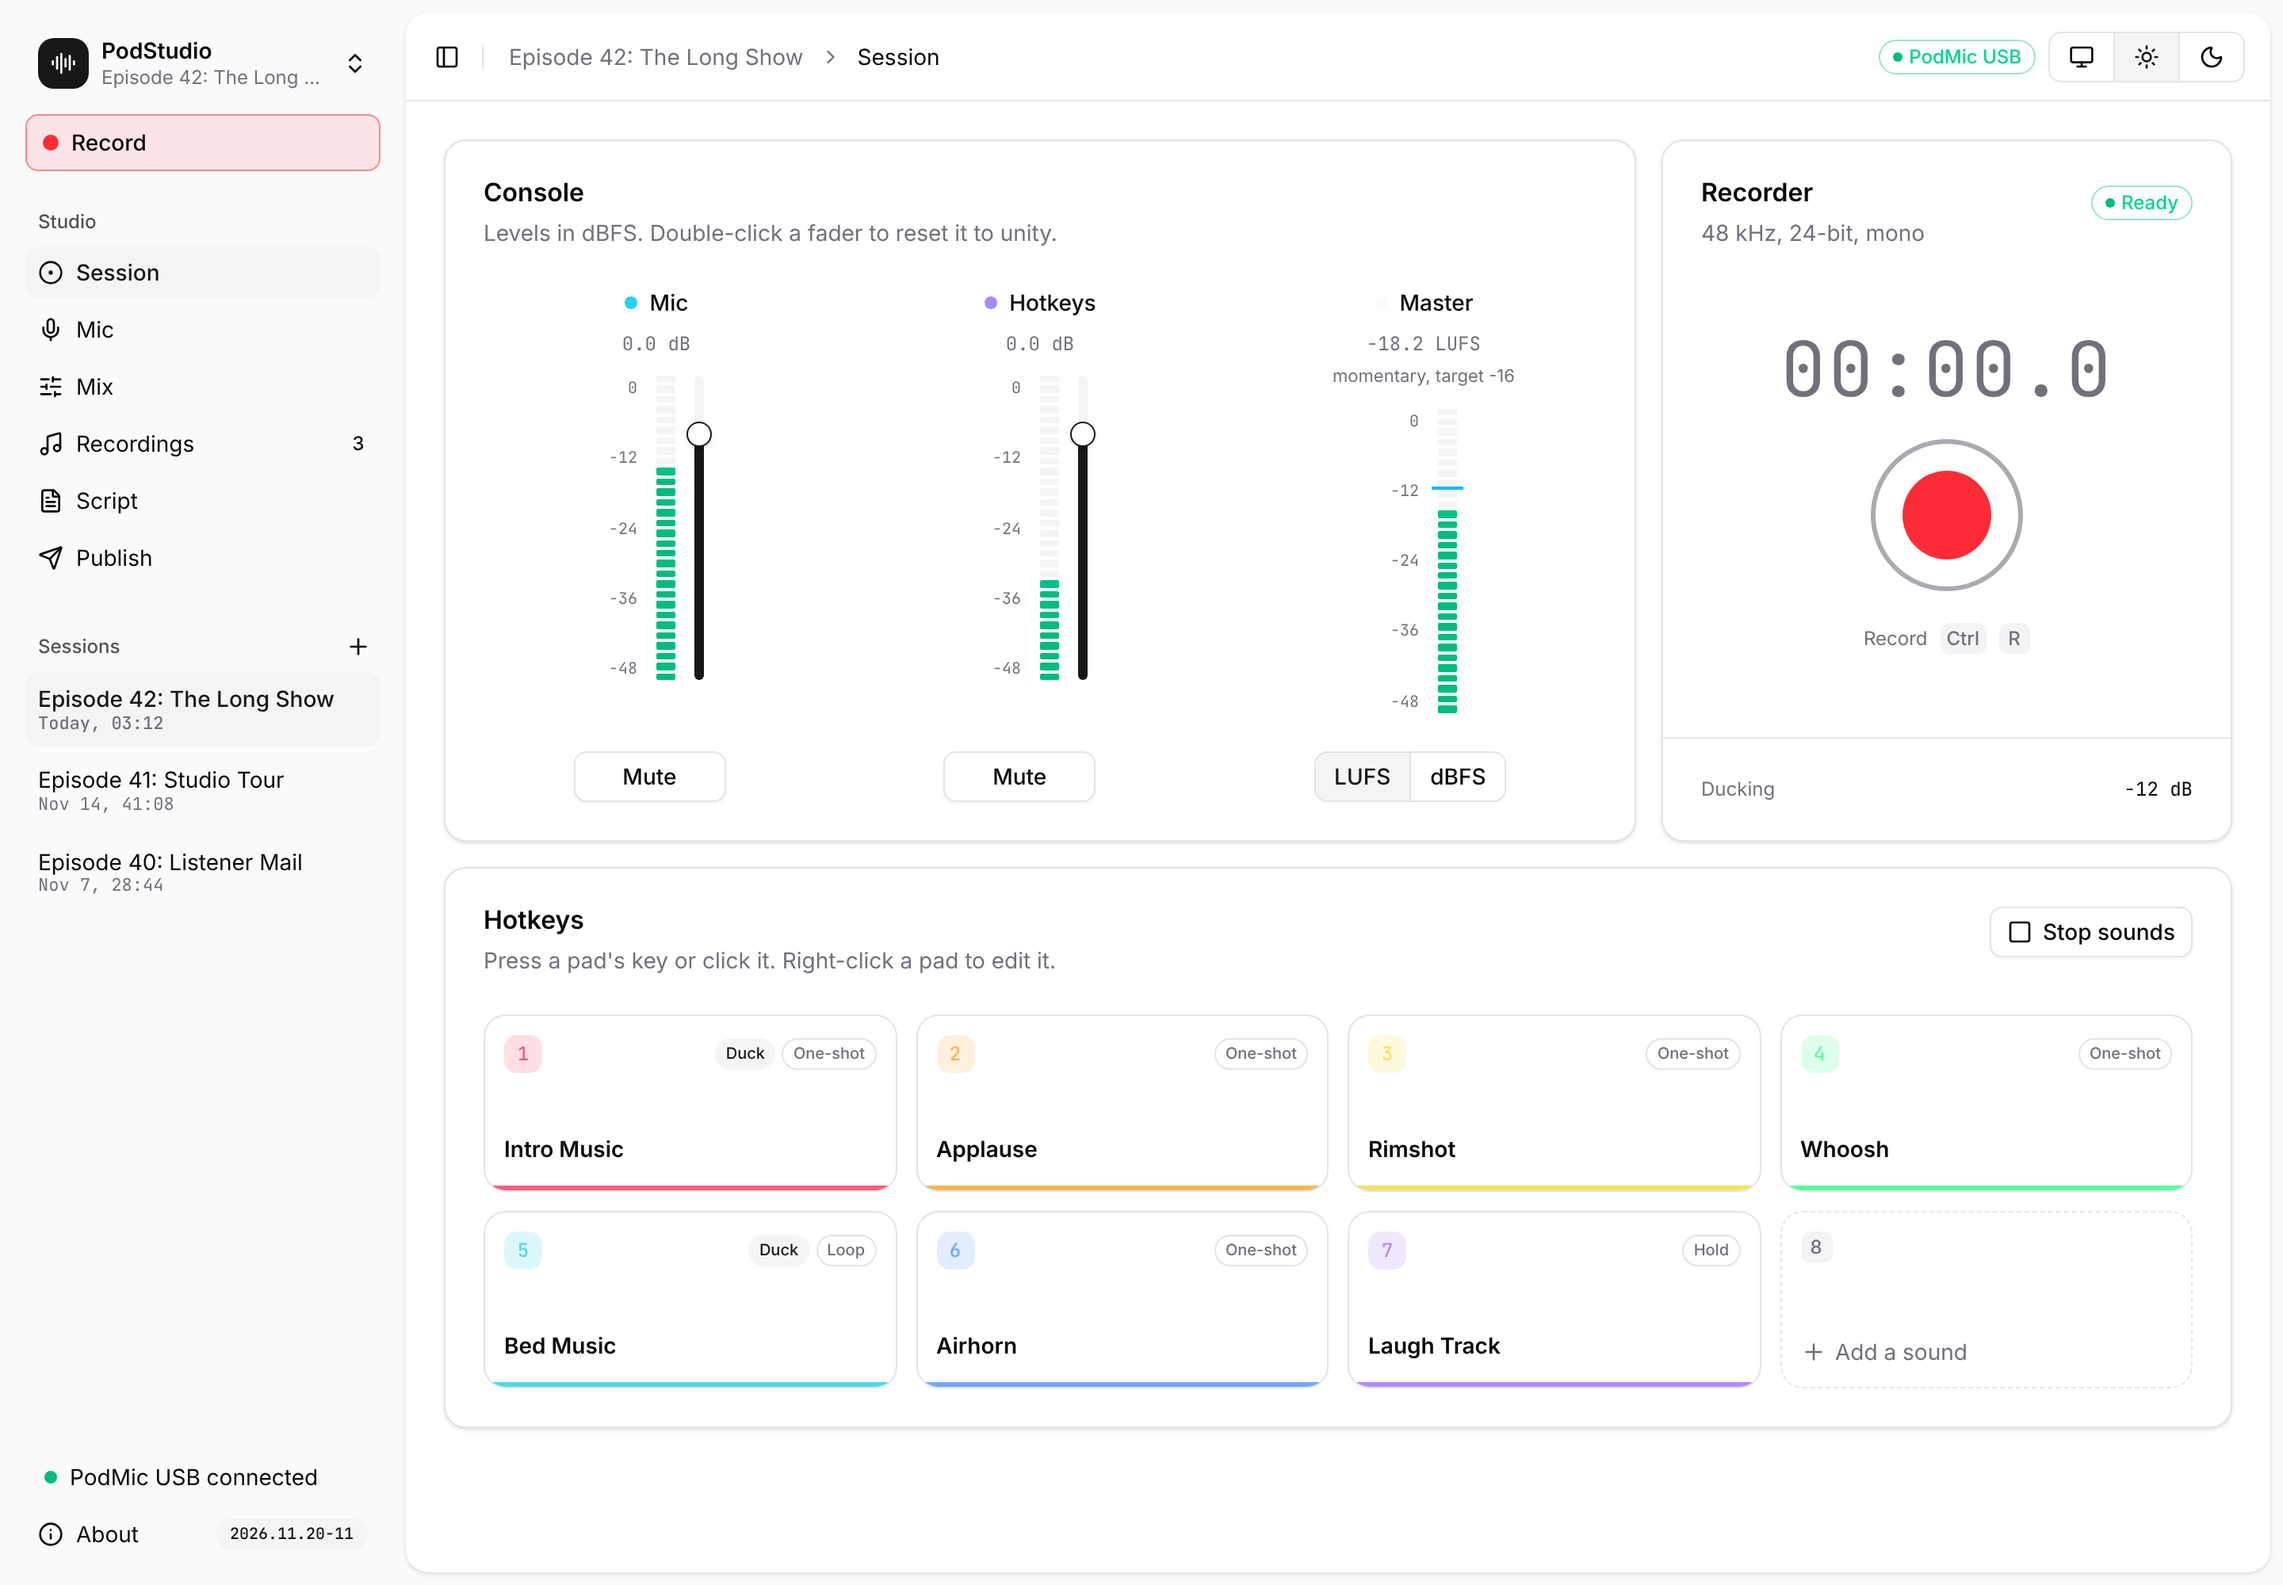
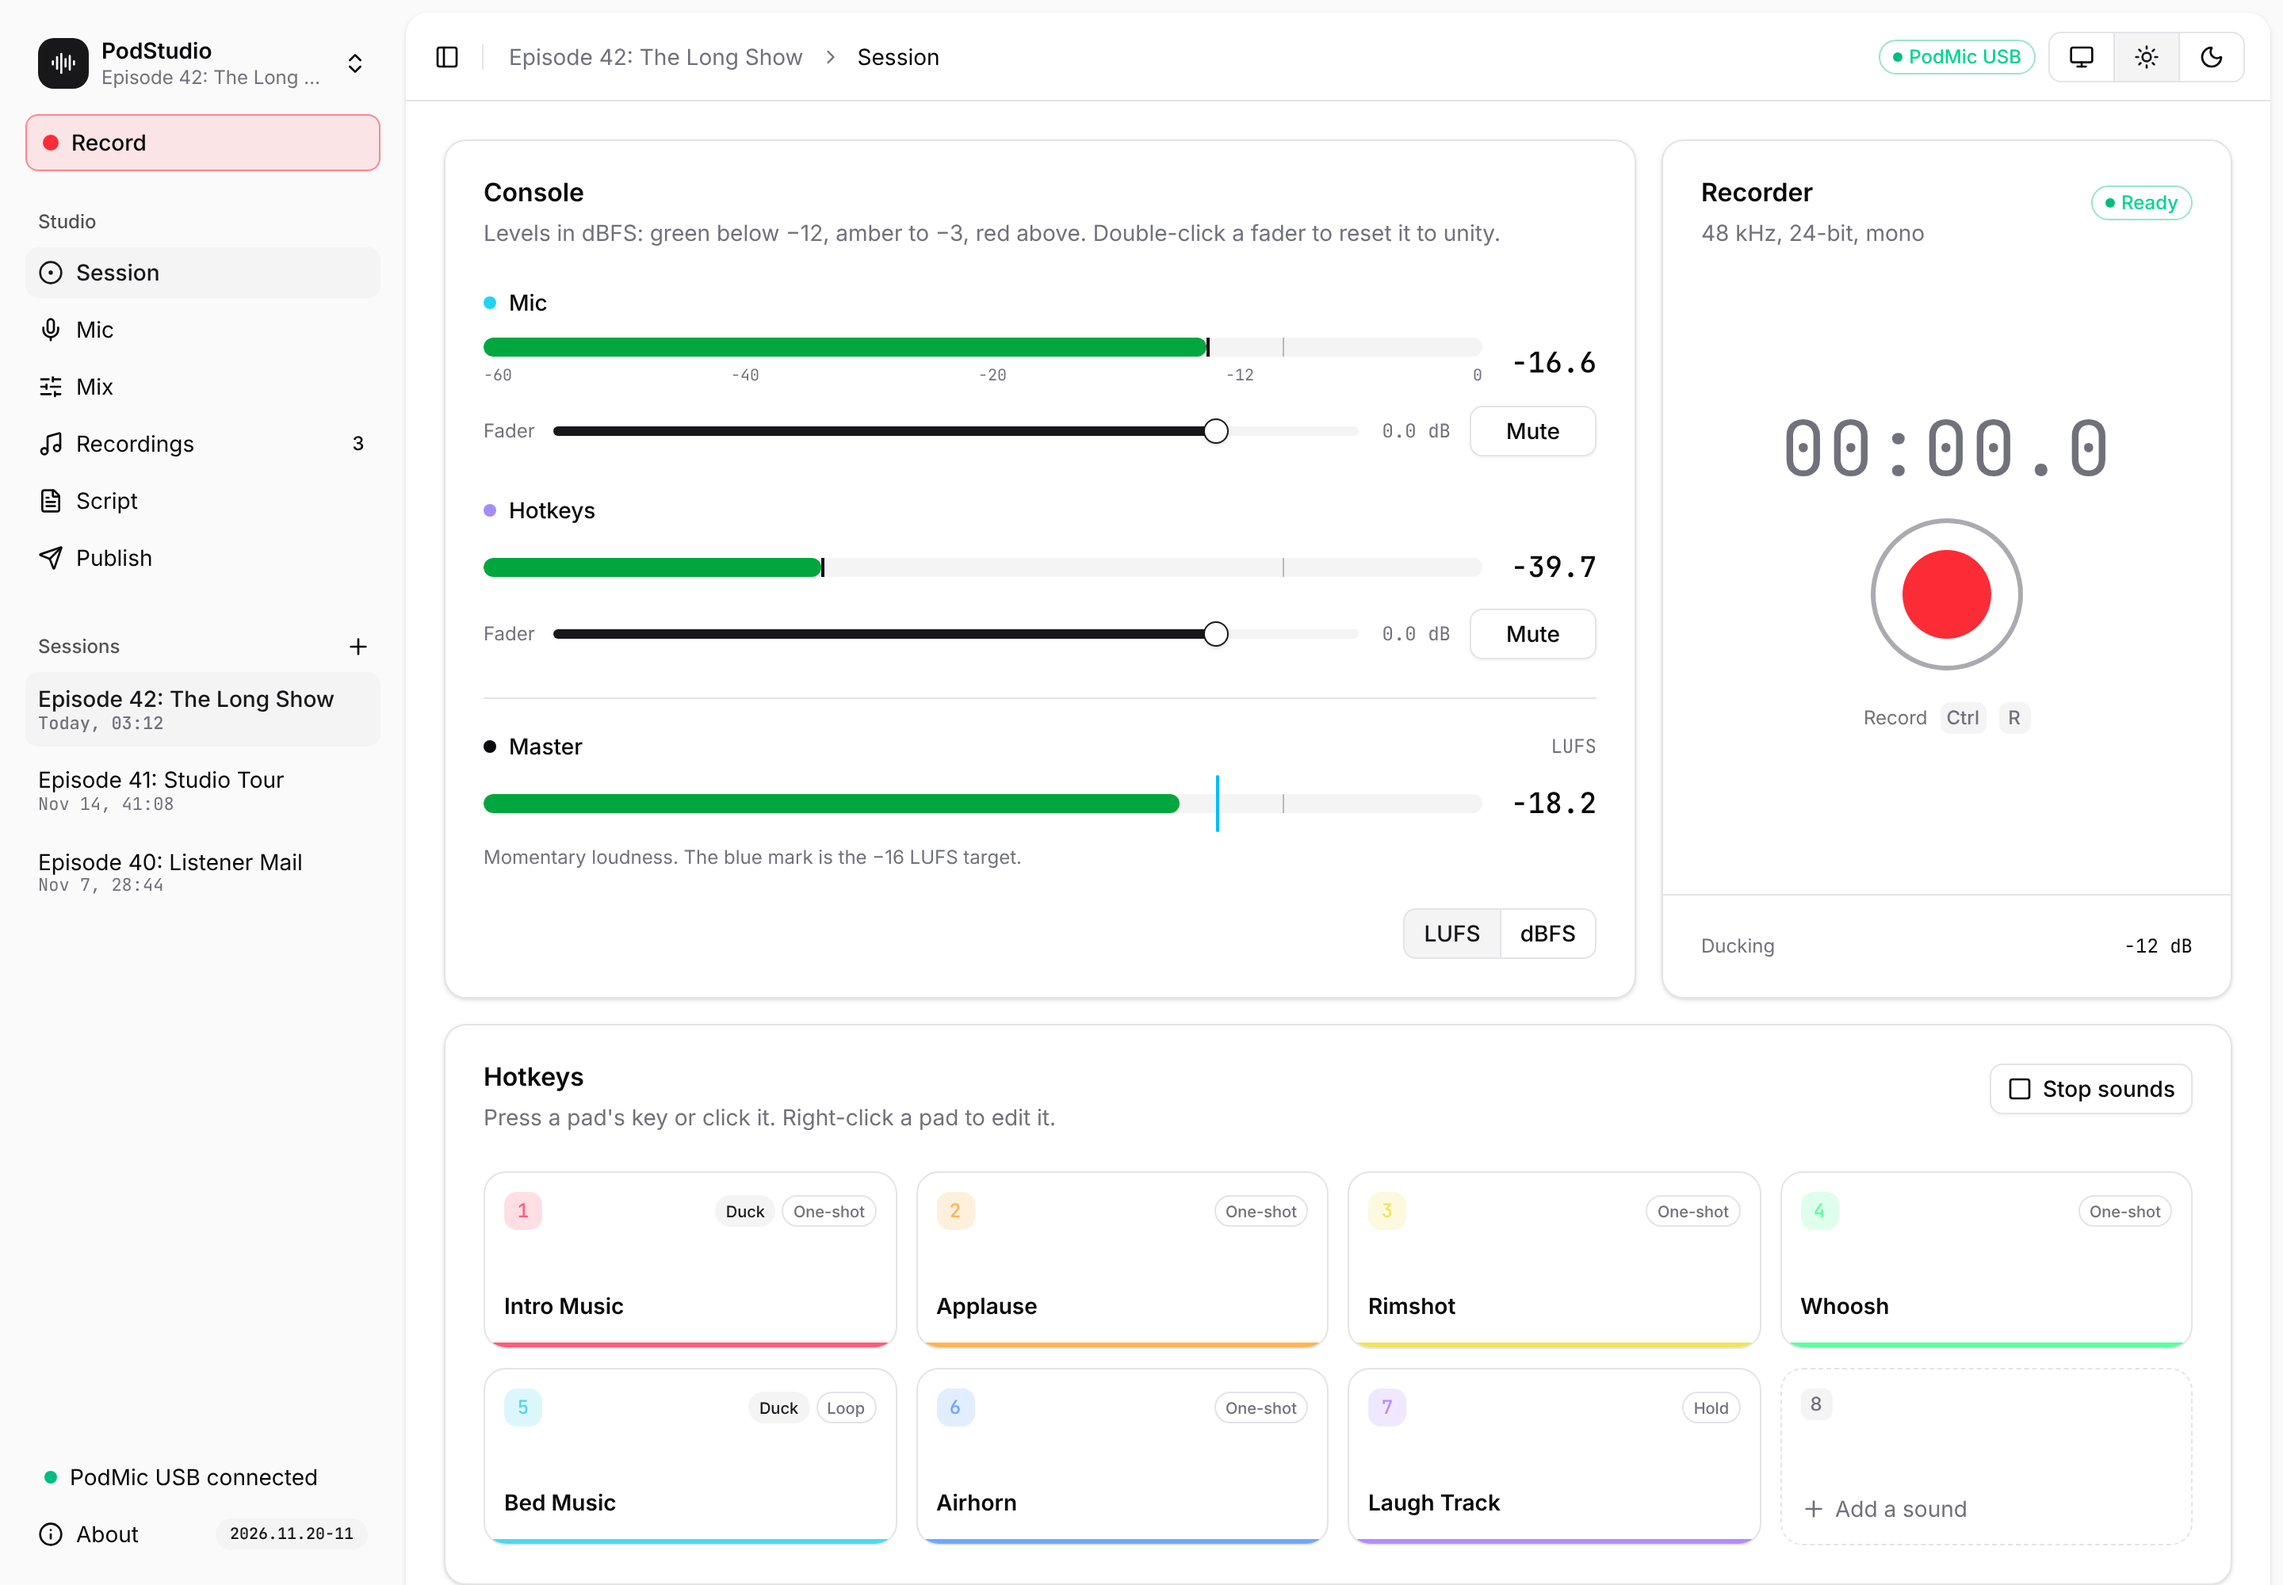
Mockup: PodStudio levels use the shared shadcn level meter
The Session Console and the Mic screen now use the same LevelMeter as Towerlog, Pi-Tuner and NetAudio: a slim bar that is green below -12, amber to -3 and red above, with a peak hold tick and a mono readout. The Console is rows of channel, meter and fader instead of vertical LED strips, and the Master keeps its -16 LUFS target mark. The old segmented meter, ruler and strip are removed and the screenshots are retaken.

Claude-Session: https://claude.ai/code/session_01RCWXhgRzvgYq28Wn67J7k5

diff --git a/docs/mockup/src/screens/session.tsx b/docs/mockup/src/screens/session.tsx
@@ -7,7 +7,29 @@ import { Kbd } from "@/components/ui/kbd"
 import { Slider } from "@/components/ui/slider"
 import { ToggleGroup, ToggleGroupItem } from "@/components/ui/toggle-group"
 import { cn } from "@/lib/utils"
-import { PADS, Pad, RecordTimer, Strip, useLevels } from "./parts"
+import { LevelMeter } from "@/components/level-meter"
+import { PADS, Pad, RecordTimer, useLevels } from "./parts"
+
+/** One mixer channel: name and fader readout, the shared level meter, then the fader and Mute. */
+function Channel({ name, dot, db, peak, gain, onGain, muted, onMute }: {
+  name: string; dot: string; db: number | null; peak: number | null
+  gain: number[]; onGain: (v: number[]) => void; muted: boolean; onMute: () => void
+}) {
+  return (
+    <div className="space-y-3">
+      <div className="flex items-center justify-between">
+        <div className="flex items-center gap-2 text-sm font-medium"><span className="size-2 rounded-full" style={{ background: dot }} />{name}</div>
+      </div>
+      <LevelMeter size="lg" db={db} peak={peak} showScale={name === "Mic"} />
+      <div className="flex items-center gap-3">
+        <span className="w-10 text-xs text-muted-foreground">Fader</span>
+        <Slider min={-60} max={12} step={0.5} value={gain} onValueChange={onGain} />
+        <span className="w-16 text-right font-mono text-xs tabular-nums text-muted-foreground">{gain[0].toFixed(1)} dB</span>
+        <Button variant={muted ? "destructive" : "outline"} size="sm" className="w-20" onClick={onMute}>{muted ? "Muted" : "Mute"}</Button>
+      </div>
+    </div>
+  )
+}
 
 /* ---------------------------------------------------------------- pages */
 export function SessionPage({ recording, onRecord }: { recording: boolean; onRecord: () => void }) {
@@ -17,32 +39,38 @@ export function SessionPage({ recording, onRecord }: { recording: boolean; onRec
   const [mode, setMode] = React.useState("lufs")
   const [micMute, setMicMute] = React.useState(false)
   const [hkMute, setHkMute] = React.useState(false)
-  const masterDb = mode === "lufs" ? `${(-28 + lv.master * 14).toFixed(1)} LUFS` : `${(-20 + lv.master * 16).toFixed(1)} dBFS`
+  const lufs = mode === "lufs"
+  const masterDb = lufs ? -28 + ((lv.master + 60) / 60) * 14 : -20 + ((lv.master + 60) / 60) * 16
+  const masterPeak = lufs ? null : -20 + ((lv.peak.master + 60) / 60) * 16
+  const targetPct = `${((-16 + 60) / 60) * 100}%`
 
   return (
     <div className="grid gap-4 xl:grid-cols-[minmax(0,1fr)_360px]">
       <Card>
         <CardHeader>
           <CardTitle>Console</CardTitle>
-          <CardDescription>Levels in dBFS. Double-click a fader to reset it to unity.</CardDescription>
+          <CardDescription>Levels in dBFS: green below −12, amber to −3, red above. Double-click a fader to reset it to unity.</CardDescription>
         </CardHeader>
-        <CardContent className="flex flex-wrap justify-around gap-6">
-          <Strip name="Mic" dot="#22d3ee" value={micMute ? 0 : lv.mic} readout={`${mic[0].toFixed(1)} dB`}>
-            <Slider orientation="vertical" min={-60} max={12} step={0.5} value={mic} onValueChange={setMic} className="!min-h-0 h-48" />
-          </Strip>
-          <Strip name="Hotkeys" dot="#a78bfa" value={hkMute ? 0 : lv.hk} readout={`${hk[0].toFixed(1)} dB`}>
-            <Slider orientation="vertical" min={-60} max={12} step={0.5} value={hk} onValueChange={setHk} className="!min-h-0 h-48" />
-          </Strip>
-          <Strip name="Master" dot="#fafafa" value={lv.master} readout={masterDb}
-            caption={mode === "lufs" ? "momentary, target -16" : "peak"} />
+        <CardContent className="grid gap-6">
+          <Channel name="Mic" dot="#22d3ee" db={micMute ? null : lv.mic} peak={micMute ? null : lv.peak.mic} gain={mic} onGain={setMic} muted={micMute} onMute={() => setMicMute(!micMute)} />
+          <Channel name="Hotkeys" dot="#a78bfa" db={hkMute ? null : lv.hk} peak={hkMute ? null : lv.peak.hk} gain={hk} onGain={setHk} muted={hkMute} onMute={() => setHkMute(!hkMute)} />
+          <div className="space-y-3 border-t pt-5">
+            <div className="flex items-center justify-between">
+              <div className="flex items-center gap-2 text-sm font-medium"><span className="size-2 rounded-full bg-foreground" />Master</div>
+              <span className="font-mono text-xs text-muted-foreground">{lufs ? "LUFS" : "dBFS"}</span>
+            </div>
+            <div className="relative">
+              <LevelMeter size="lg" db={masterDb} peak={masterPeak} />
+              {lufs && (
+                <div className="pointer-events-none absolute inset-y-0 left-0 right-[4.5rem]" aria-hidden>
+                  <span className="absolute -inset-y-1 w-0.5 rounded-full bg-sky-400" style={{ left: targetPct }} />
+                </div>
+              )}
+            </div>
+            <div className="text-xs text-muted-foreground">{lufs ? "Momentary loudness. The blue mark is the −16 LUFS target." : "Peak level of the master."}</div>
+          </div>
         </CardContent>
-        <CardFooter className="flex flex-wrap justify-around gap-6">
-          <Button variant={micMute ? "destructive" : "outline"} size="sm" className="w-24" onClick={() => setMicMute(!micMute)}>
-            {micMute ? "Muted" : "Mute"}
-          </Button>
-          <Button variant={hkMute ? "destructive" : "outline"} size="sm" className="w-24" onClick={() => setHkMute(!hkMute)}>
-            {hkMute ? "Muted" : "Mute"}
-          </Button>
+        <CardFooter className="justify-end">
           <ToggleGroup type="single" variant="outline" size="sm" value={mode} onValueChange={(v) => v && setMode(v)}>
             <ToggleGroupItem value="lufs">LUFS</ToggleGroupItem>
             <ToggleGroupItem value="peak">dBFS</ToggleGroupItem>

diff --git a/docs/mockup/src/screens/parts.tsx b/docs/mockup/src/screens/parts.tsx
@@ -37,72 +37,32 @@ export const PADS = [
 ]
 
 /* ---------------------------------------------------------------- live demo levels */
-export function useLevels(active: boolean) {
-  const [t, setT] = React.useState(0)
+/** Live demo levels in dBFS, with a 2 s peak hold. Feed them to the shared `LevelMeter`. */
+export type Levels = { mic: number; hk: number; master: number; peak: { mic: number; hk: number; master: number } }
+
+export function useLevels(active: boolean): Levels {
+  const [lv, setLv] = React.useState<Levels>({ mic: -60, hk: -60, master: -60, peak: { mic: -60, hk: -60, master: -60 } })
+  const held = React.useRef<Record<"mic" | "hk" | "master", [number, number]>>({ mic: [-60, 0], hk: [-60, 0], master: [-60, 0] })
   React.useEffect(() => {
-    const id = setInterval(() => setT((v) => v + 1), 90)
+    let t = 0
+    const id = setInterval(() => {
+      t++
+      const voice = active ? 0.55 + 0.2 * Math.abs(Math.sin(t * 0.37)) * Math.abs(Math.sin(t * 0.11 + 1)) : 0.04
+      const hk = 0.25 + 0.15 * Math.abs(Math.sin(t * 0.21))
+      const next = { mic: voice, hk, master: Math.min(0.95, voice * 0.85 + hk * 0.25) }
+      const db = { mic: -60 + next.mic * 60, hk: -60 + next.hk * 60, master: -60 + next.master * 60 }
+      const peak = { mic: 0, hk: 0, master: 0 }
+      for (const k of ["mic", "hk", "master"] as const) {
+        const [v, at] = held.current[k]
+        held.current[k] = db[k] >= v || t - at > 22 ? [db[k], t] : [v, at]
+        peak[k] = held.current[k][0]
+      }
+      setLv({ ...db, peak })
+    }, 90)
     return () => clearInterval(id)
-  }, [])
-  const voice = active ? 0.55 + 0.2 * Math.abs(Math.sin(t * 0.37)) * Math.abs(Math.sin(t * 0.11 + 1)) : 0.04
-  const hk = 0.25 + 0.15 * Math.abs(Math.sin(t * 0.21))
-  return { mic: voice, hk, master: Math.min(0.95, voice * 0.85 + hk * 0.25) }
+  }, [active])
+  return lv
 }
-
-export function Meter({ value, target }: { value: number; target?: number }) {
-  const n = 30
-  return (
-    <div className="relative flex h-48 w-3 flex-col-reverse gap-[2px]">
-      {Array.from({ length: n }, (_, i) => {
-        const p = (i + 1) / n
-        const on = p <= value
-        return (
-          <div
-            key={i}
-            className={cn(
-              "flex-1 rounded-[1px] transition-colors duration-75",
-              !on && "bg-muted",
-              on && p <= 0.78 && "bg-emerald-500",
-              on && p > 0.78 && p <= 0.93 && "bg-amber-500",
-              on && p > 0.93 && "bg-red-500"
-            )}
-          />
-        )
-      })}
-      {target !== undefined && (
-        <div className="absolute -inset-x-1 h-0.5 bg-sky-400" style={{ bottom: `${target * 100}%` }} />
-      )}
-    </div>
-  )
-}
-
-export function Ruler() {
-  return (
-    <div className="flex h-48 flex-col justify-between text-right font-mono text-[10px] text-muted-foreground">
-      <span>0</span><span>-12</span><span>-24</span><span>-36</span><span>-48</span>
-    </div>
-  )
-}
-
-export function Strip({ name, dot, value, children, readout, caption }: {
-  name: string; dot: string; value: number; children?: React.ReactNode; readout: string; caption?: string
-}) {
-  return (
-    <div className="flex min-w-36 flex-col items-center gap-2">
-      <div className="flex items-center gap-2 text-sm font-medium">
-        <span className="size-2 rounded-full" style={{ background: dot }} />
-        {name}
-      </div>
-      <div className="font-mono text-xs text-muted-foreground">{readout}</div>
-      {caption && <div className="-mt-1 text-[11px] text-muted-foreground">{caption}</div>}
-      <div className="flex items-stretch gap-3 pt-1">
-        <Ruler />
-        <Meter value={value} target={name === "Master" ? 0.73 : undefined} />
-        {children}
-      </div>
-    </div>
-  )
-}
-
 
 export function RecordTimer({ recording }: { recording: boolean }) {
   const [ms, setMs] = React.useState(0)

diff --git a/docs/mockup/src/screens/mic.tsx b/docs/mockup/src/screens/mic.tsx
@@ -4,7 +4,7 @@ import { Button } from "@/components/ui/button"
 import { Card, CardAction, CardContent, CardDescription, CardHeader, CardTitle } from "@/components/ui/card"
 import { Input } from "@/components/ui/input"
 import { Label } from "@/components/ui/label"
-import { Progress } from "@/components/ui/progress"
+import { LevelMeter } from "@/components/level-meter"
 import { Separator } from "@/components/ui/separator"
 import { Slider } from "@/components/ui/slider"
 import { Switch } from "@/components/ui/switch"
@@ -161,10 +161,9 @@ export function MicPage() {
             ))}
             <span className="text-xs text-muted-foreground">Click a stage to turn it on or off.</span>
           </div>
-          <div className="grid items-center gap-3 sm:grid-cols-[auto_minmax(0,1fr)_auto]">
+          <div className="grid items-center gap-3 sm:grid-cols-[auto_minmax(0,1fr)]">
             <Label className="text-muted-foreground">Mic level</Label>
-            <Progress value={lv.mic * 100} />
-            <span className="font-mono text-xs tabular-nums text-muted-foreground">{(-60 + lv.mic * 60).toFixed(1)} dBFS</span>
+            <LevelMeter db={lv.mic} peak={lv.peak.mic} />
           </div>
         </CardContent>
       </Card>
